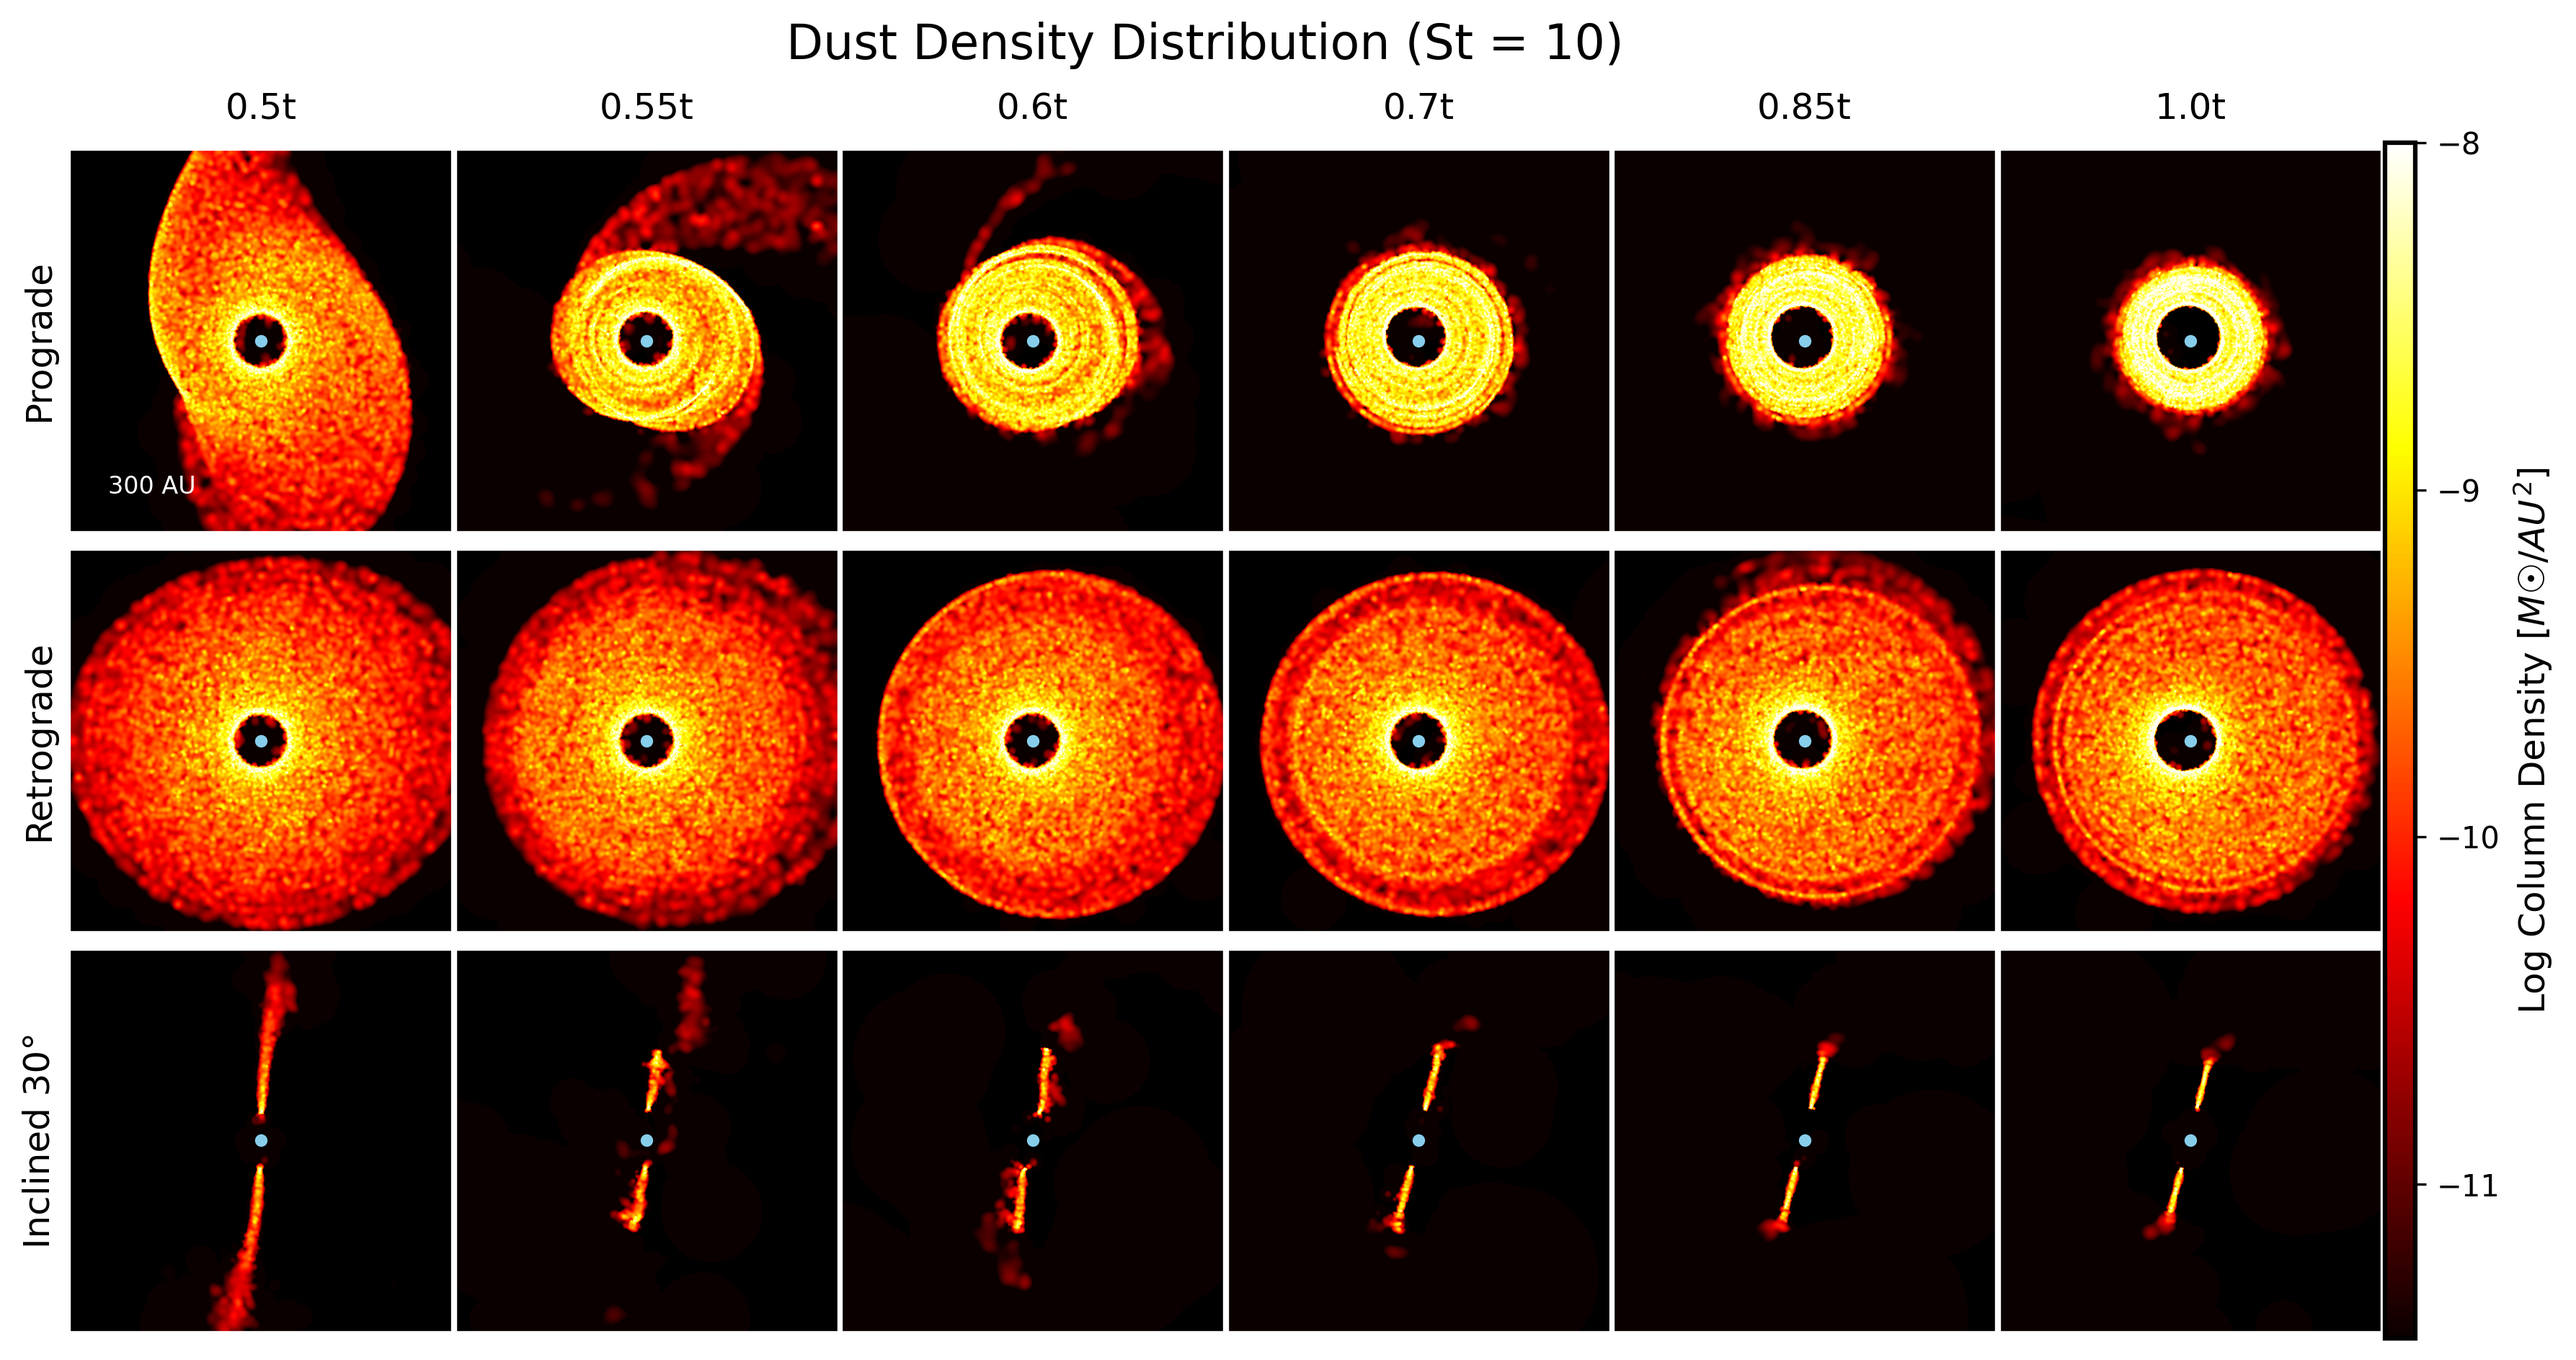
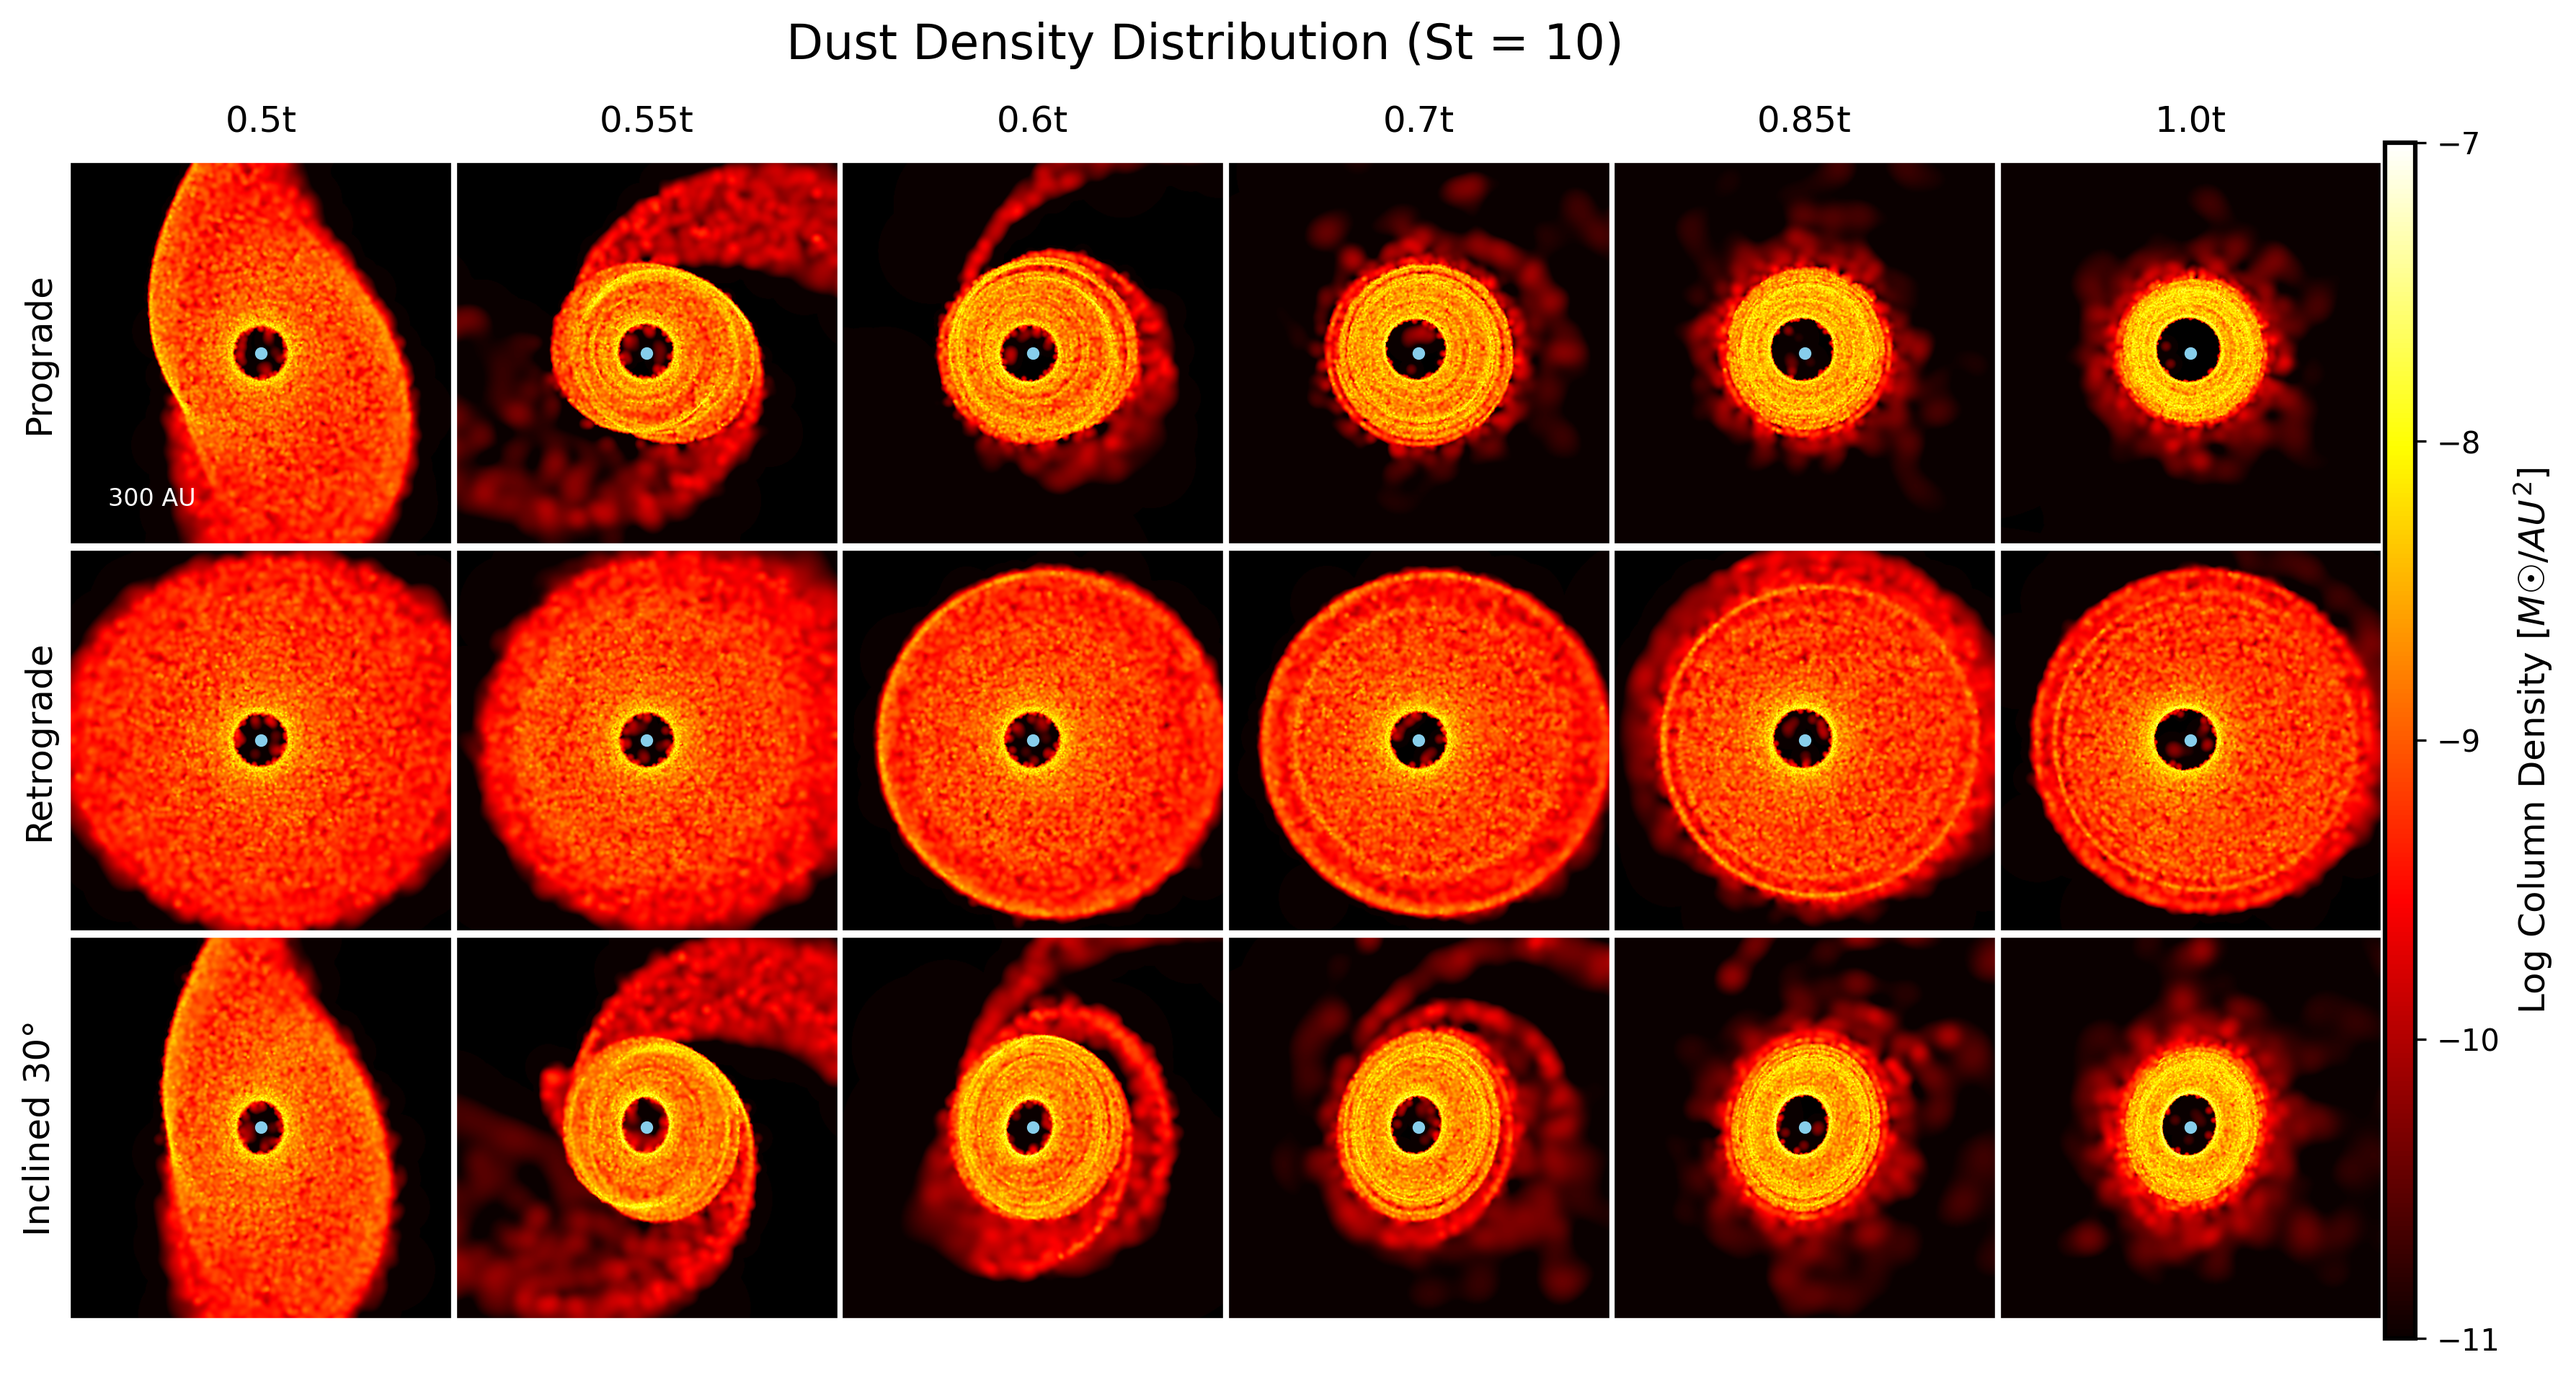
finalised renders

diff --git a/render_functions.py b/render_functions.py
@@ -102,7 +102,7 @@ def subplot_dust1(sdf, sdf_sinks, SECTIONAL_VIEW, ax, cbar):
         plot_sinks(ax, sdf_sinks=sdf_sinks)
 
     else:
-        ax = sdf[sdf.itype == 7].render('rho', xlim=(-150, 150), ylim=(-150, 150), log_scale=False, norm=LogNorm(1e-11, 1e-8),
+        ax = sdf[sdf.itype == 7].render('rho', xlim=(-150, 150), ylim=(-150, 150), log_scale=False, norm=LogNorm(1e-11, 1.e-7),
                                         cmap='hot', ax = ax, cbar = cbar, cbar_kws = {})
         plot_sinks(ax, sdf_sinks=sdf_sinks) 
         
@@ -123,7 +123,7 @@ def subplot_dust2(sdf, sdf_sinks, SECTIONAL_VIEW, ax, cbar):
         plot_sinks(ax, sdf_sinks=sdf_sinks)
 
     else:
-        ax = sdf[sdf.itype == 8].render('rho', xlim=(-150, 150), ylim=(-150, 150), log_scale=False,norm=LogNorm(1e-11, 1e-8),
+        ax = sdf[sdf.itype == 8].render('rho', xlim=(-150, 150), ylim=(-150, 150), log_scale=False,norm=LogNorm(1e-11, 1e-7),
                                         cmap='hot', ax = ax, cbar = cbar, cbar_kws = {})
         plot_sinks(ax, sdf_sinks=sdf_sinks)
 

diff --git a/render_plots_portrait.py b/render_plots_portrait.py
@@ -131,8 +131,9 @@ def render_plot(subplot, sectional_view):
 
 SECTIONAL_VIEW = False
 
-render_list = ['gas','dust1','dust2']
-#render_list = ['dust1','dust2']
+#render_list = ['gas','dust1','dust2']
+# render_list = ['dust1','dust2']
+render_list = ['dust1']
 
 #plot_name_list = ['gas_distribution','dust_a_distribution','dust_b_distribution']
 for plot in render_list:
